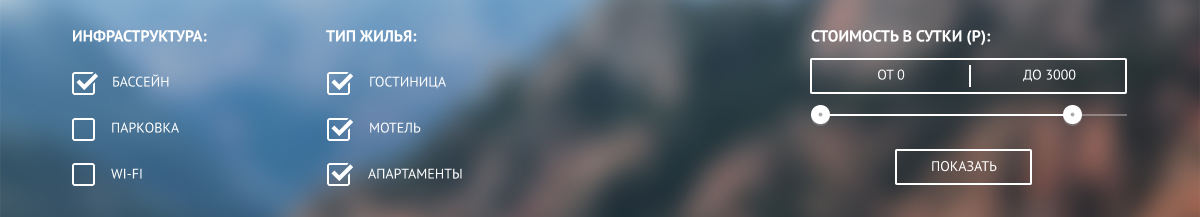
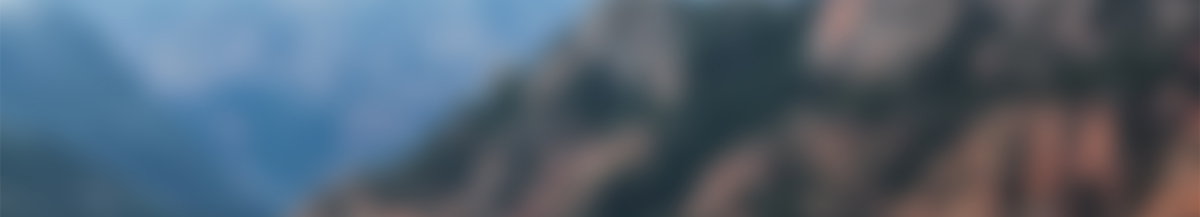
Заканчивает стилизацию текста на странице catalog

diff --git a/catalog.html b/catalog.html
@@ -26,11 +26,10 @@
     </header>
     <main class="main-container">
       <h1 class="residence">Выбор места проживания в городе Седона</h1>
-      <!-- // TODO: Этот заголовок я потом скрою-->
       <form class="place-residence-form" action="#!" method="post">
         <fieldset>
           <legend>Инфраструктура:</legend>
-          <ul>
+          <ul class="infrastructure">
             <li>
               <input type="checkbox" name="pool" id="pool" checked>
               <label for="pool">Бассейн</label>
@@ -47,7 +46,7 @@
         </fieldset>
         <fieldset>
           <legend>Тип жилья:</legend>
-          <ul>
+          <ul class="house-type">
             <li>
               <input type="checkbox" name="hotel" id="hotel" checked>
               <label for="hotel">Гостиница</label>
@@ -64,7 +63,7 @@
         </fieldset>
         <fieldset>
           <legend>Стоимость в сутки (Р):</legend>
-          <p>
+          <p class="service-cost">
             <label for="cost-from">от</label>
             <input type="text" name="cost-from" id="cost-from" value="0">
             <label for="cost-before">до</label>
@@ -75,65 +74,78 @@
             <!-- Это потом, я так понимаю, нужно будет заменить на div, или на что-то еще-->
           </label>
         </fieldset>
-        <button type="submit" name="select-home" id="select-home">Показать</button>
+        <button  class="residence-show" type="submit" name="select-home" id="select-home">Показать</button>
       </form>
       <section class="residence-results">
         <h2 class="residence-results-title">Результаты поиска</h2>
-        <!-- // TODO: Этот заголовок я потом скрою-->
-        <span>Найдено: 3</span>
-        <span>Сортировка:</span>
+        <span class="residence-results-find">Найдено: 3</span>
+        <span class="residence-results-sorting">Сортировка:</span>
         <ul class="residence-sorting">
-          <!-- // TODO: Здесь будут ссылки, стилизованные под кнопки -->
-          <li><a href="#!">По цене</a></li>
-          <li><a href="#!">По типу</a></li>
-          <li><a href="#!">По рейтингу</a></li>
+          <li><a class="residence-sorting-active" href="#!">По цене</a></li>
+          <li><a href="#!"><span>По типу</span></a></li>
+          <li><a href="#!"><span>По рейтингу</span></a></li>
         </ul>
         <ul class="residence-sorting-arrows">
-          <li><a href="#!"><img src="img/icon-sort.svg" width="11" height="10" alt="Сортировка по убыванию"><!-- // TODO: Здесь будет ссылка стилизованная под кнопку, с svg-элементом--></a></li>
-          <li><a href="#!"><img src="img/icon-sort.svg" width="11" height="10" alt="Сортировка по возрастанию"><!-- // TODO: Здесь будет ссылка стилизованная под кнопку, с svg-элементом--></a></li>
+          <li><a href="#!"><img src="img/icon-sort.svg" width="11" height="10" alt="Сортировка по убыванию"><!-- // TODO: Этот логотип я потом вставлю в виде svg и стилизую--></a></li>
+          <li><a href="#!"><img src="img/icon-sort.svg" width="11" height="10" alt="Сортировка по возрастанию"><!-- // TODO: Этот логотип я потом вставлю в виде svg и стилизую--></a></li>
         </ul>
         <ul class="choose-residence">
           <li>
-            <img src="img/amara-resort-spa.jpg" width="135" height="90" alt="Потрясающие виды Седоны и Amara Resort & Spa">
-            <h3><a href="#!">Amara Resort &amp; Spa</a></h3>
+            <figure class="choose-residence-image">
+              <img class="choose-residence-img" src="img/amara-resort-spa.jpg" width="135" height="90" alt="Потрясающие виды Седоны и Amara Resort & Spa">
+            </figure>
+            <h3 class="choose-residence-name"><a href="#!">Amara Resort &amp; Spa</a></h3>
             <span>Гостиница</span>
             <span>От 4000 Р.</span>
-            <p>
-              <a href="#!">Подробнее</a>
-              <a href="#!">Забронировать</a>
+            <p class="choose-residence-details">
+              <a class="choose-residence-more" href="#!"><span>Подробнее</span></a>
+            </p>
+            <p class="choose-residence-reserve">
+              <a class="choose-residence-reserving" href="#!"><span>Забронировать</span></a>
             </p>
             <p>
+              <!-- //TODO: Это изображение потом будет перенесено в код в виде svg-->
               <img src="img/four-stars.svg" width="76" height="17" alt="Четыре звезды">
             </p>
-            <p>Рейтинг: 8,5</p>
+            <p class="choose-residence-rating">Рейтинг: 8,5</p>
           </li>
           <li>
-            <img src="img/desert-quail-inn.jpg" width="135" height="90" alt="Дорога к Desert Quail Inn">
-            <h3><a href="#!">Desert Quail Inn</a></h3>
+            <figure class="choose-residence-image">
+              <img class="choose-residence-img" src="img/desert-quail-inn.jpg" width="135" height="90" alt="Дорога к Desert Quail Inn">
+            </figure>
+            <h3 class="choose-residence-name"><a href="#!">Desert Quail Inn</a></h3>
             <span>Мотель</span>
             <span>От 3000 Р.</span>
-            <p>
-              <a href="#!">Подробнее</a>
-              <a href="#!">Забронировать</a>
+            <p class="choose-residence-details">
+              <a class="choose-residence-more" href="#!"><span>Подробнее</span></a>
+            </p>
+            <p class="choose-residence-reserve">
+              <a class="choose-residence-reserving" href="#!"><span>Забронировать</span></a>
             </p>
             <p>
+              <!-- //TODO: Это изображение потом будет перенесено в код в виде svg-->
               <img src="img/three-stars.svg" width="57" height="17" alt="Три звезды">
             </p>
-            <p>Рейтинг: 8,9</p>
+            <p class="choose-residence-rating">Рейтинг: 8,9</p>
           </li>
           <li>
-            <img src="img/villas-at-poco-diablo.jpg" width="135" height="90" alt="Villas at Poco Diablo - уютный уголок среди полей, лесов и гор Седоны">
-            <h3><a href="#!">Villas at Poco Diablo</a></h3>
+            <figure class="choose-residence-image">
+              <img class="choose-residence-img" src="img/villas-at-poco-diablo.jpg" width="135" height="90" alt="Villas at Poco Diablo - уютный уголок среди полей, лесов и гор Седоны">
+            </figure>
+            <h3 class="choose-residence-name"><a href="#!">Villas at Poco Diablo</a></h3>
             <span>Апартаменты</span>
             <span>От 2000 Р.</span>
-            <p>
-              <a href="#!">Подробнее</a>
-              <a href="#!">Забронировать</a>
+            <p class="choose-residence-details">
+              <a class="choose-residence-more" href="#!"><span>Подробнее</span></a>
+            </p>
+            <p class="choose-residence-reserve">
+              <a class="choose-residence-reserving" href="#!"><span>Забронировать</span></a>
             </p>
             <p>
+              <!-- //TODO: Это изображение потом будет перенесено в код в виде svg-->
               <img src="img/two-stars.svg" width="38" height="17" alt="Две звезды">
             </p>
-            <p>Рейтинг: 9,2</p>
+            <p class="choose-residence-rating">Рейтинг: 9,2</p>
           </li>
         </ul>
       </section>

diff --git a/css/style.css b/css/style.css
@@ -101,6 +101,10 @@ li {
   opacity: 0.3;
 }
 
+a.current {
+  color: var(--color-main-buttons);
+}
+
 /* // TODO: Index */
 
 .welcom-sedona {
@@ -291,7 +295,227 @@ li {
 
 /* //TODO: Catalog */
 
+/* //TODO: Place of Residence in Sedona */
 
+.residence, .residence-results-title {
+  visibility: hidden;
+  line-height: 0;
+  font-size: 0;
+}
+
+/* //TODO: Form Place of Residence in Sedona */
+
+.place-residence-form {
+  background: url(../img/filter-hotels.jpg) no-repeat var(--color-welcome);
+}
+
+.place-residence-form fieldset {
+  border: none;
+  font-weight: bold;
+  font-size: 16px;
+  line-height: 21px;
+  color: var(--color-background);
+}
+
+.infrastructure, .house-type {
+  font-weight: normal;
+  font-size: 14px;
+  line-height: 21px;
+  margin: 0;
+  padding: 0;
+}
+
+/*.infrastructure input[type="checkbox"] {
+display: none;
+} */
+
+.service-cost {
+  font-weight: normal;
+  font-size: 14px;
+}
+
+.service-cost input[type="text"] {
+  background-color: transparent;
+  border: 0;
+  outline: 0;
+  color: var(--color-background);
+}
+
+.residence-show {
+  background-color: transparent;
+  border: 2px solid #FFFFFF;
+  box-sizing: border-box;
+  border-radius: 2px;
+  width: 137px;
+  height: 36px;
+  color: var(--color-background);
+  font-size: 14px;
+  line-height: 21px;
+  text-transform: uppercase;
+  outline: 0;
+}
+
+.residence-show:hover {
+  background-color: var(--color-background);
+  color: var(--color-header-text)
+}
+
+/* //TODO: Results of Form Place of Residence in Sedona */
+
+.residence-results-find {
+  font-weight: bold;
+  font-size: 21px;
+  line-height: 26px;
+}
+
+.residence-results-sorting {
+  font-size: 12px;
+  line-height: 18px;
+}
+
+.residence-sorting, .residence-sorting-arrows {
+  margin: 0;
+  padding: 0;
+}
+
+.residence-sorting a {
+  font-size: 12px;
+  line-height: 18px;
+  opacity: 0.3;
+  color: var(--color-header-text);
+  padding: 2px;
+  border-bottom: 1px dashed var(--color-welcome);
+  opacity: 1;
+}
+
+.residence-sorting span {
+  opacity: 0.3;
+}
+
+.residence-sorting span:hover {
+  opacity: 1;
+  color: var(--color-welcome);
+}
+
+.residence-sorting span:active, .residence-sorting a:active {
+  opacity: 1;
+  color: var(--color-header-text);
+  border: 0;
+}
+
+a.residence-sorting-active, a.residence-sorting-active:hover, a.residence-sorting-active:active {
+  font-size: 12px;
+  line-height: 18px;
+  color: var(--color-welcome);
+  opacity: 1;
+  border-bottom: 0;
+}
+
+/* //TODO: Choose your Residence in Sedona */
+
+.choose-residence {
+  margin: 0;
+  padding: 0;
+}
+
+.choose-residence-image {
+  background-color: var(--color-welcome);
+  width: 135px;
+  height: 90px;
+}
+
+.choose-residence-name {
+  font-weight: bold;
+  font-size: 21px;
+  line-height: 26px;
+}
+
+.choose-residence-name a {
+  color: var(--color-header-text);
+}
+
+.choose-residence-name a:hover {
+  color: var(--color-welcome);
+}
+
+.choose-residence-name a:active {
+  color: var(--color-header-text);
+  opacity: 0.3;
+}
+
+.choose-residence span {
+  color: var(--color-paragraph-text);
+}
+
+.choose-residence-more {
+  font-weight: bold;
+  color: var(--color-background);
+}
+
+.choose-residence-details span {
+  color: var(--color-background);
+}
+
+p.choose-residence-details {
+  width: 110px;
+  height: 27px;
+  background-color: var(--color-welcome);
+  text-align: center;
+  padding-top: 3px;
+  box-sizing: border-box;
+}
+
+p.choose-residence-details:hover {
+  background-color: var(--color-welcome-buttons-hover);
+}
+
+p.choose-residence-details:active {
+  background-color: var(--color-welcome-buttons-active);
+}
+
+p.choose-residence-details:active span {
+  opacity: 0.3;
+}
+
+.choose-residence-reserving {
+  font-weight: bold;
+  color: var(--color-background);
+}
+
+.choose-residence-reserve span {
+  color: var(--color-background);
+}
+
+p.choose-residence-reserve {
+  width: 142px;
+  height: 27px;
+  background-color: var(--color-main-buttons);
+  text-align: center;
+  padding-top: 3px;
+  box-sizing: border-box;
+}
+
+p.choose-residence-reserve:hover {
+  background-color: var(--color-main-buttons-hover);
+}
+
+p.choose-residence-reserve:active {
+  background-color: var(--color-main-buttons-active);
+}
+
+p.choose-residence-reserve:active span {
+  opacity: 0.3;
+}
+
+.choose-residence-rating {
+  text-align: center;
+  color: var(--color-catalog-rating);
+  width: 110px;
+  height: 27px;
+  background-color: var(--color-search-background);
+  padding-top: 3px;
+  box-sizing: border-box;
+}
 
 /* //TODO: Main Footer */
 
